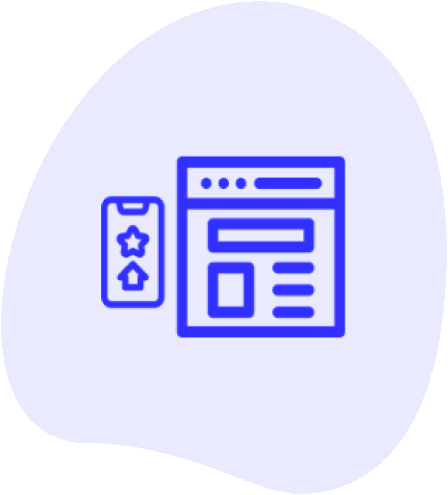
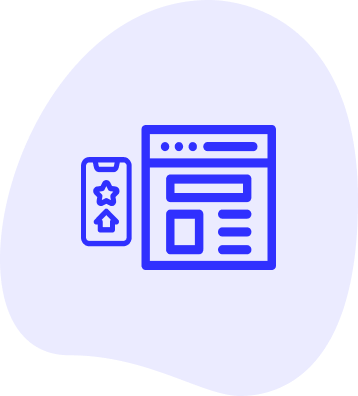
html arrangement

Changed region(s): [[0.2151, 0.3939, 0.7682, 0.697], [0.3994, 0.303, 0.7682, 0.3939], [0.5223, 0.5455, 0.5531, 0.5758]]

diff --git a/src/index.html b/src/index.html
@@ -4,34 +4,54 @@
 <head>
   <title>COOL MIND</title>
   <meta charset="UTF-8" />
+  <meta name="viewport" content="width=device-width, initial-scale=1, shrink-to-fit=no">
+
   <link rel="stylesheet" href="https://stackpath.bootstrapcdn.com/bootstrap/4.5.2/css/bootstrap.min.css"
     integrity="sha384-JcKb8q3iqJ61gNV9KGb8thSsNjpSL0n8PARn9HuZOnIxN0hoP+VmmDGMN5t9UJ0Z" crossorigin="anonymous">
 </head>
 
 <body>
+  <!--Header section-->
   <div class="header">
-    <figure class="logo"></figure>
-    <img src="img/logo.png">
-    <select class="select">
-      <option>EN</option>
-      <option>PL</option>
-      <option>DE</option>
-    </select>
+    <div class="logo">
+      <img src="img/Subtract.png">
+      <p>Cool mind</p>
+    </div>
+    <div class="language">
+      <select>
+        <option>EN</option>
+        <option>PL</option>
+        <option>DE</option>
+      </select>
+    </div>
+  </div>
+  <!--need to add hamburger menu-->
   </div>
 
-  <div class="offer">
-    <h1>We help digitals <br />producte evolve</h1>
-    <p>We are the branding and web design studio based in Portland, OR. We love playful type, bold colors and
-      joyful experience.</p>
-    <form action="http://www.jakaswitryna.com/">
-      <input placeholder=" Your email">
-      <button>Get offer</button>
-      <p>*Let us contact you</p>
-      <!--Czy to powinien być podpis pod inputem?-->
-    </form>
+  <div class="heropage">
+    <div class="herotext">
+      <h1>We help digitals producte evolve</h1>
+      <p>We are the branding and web design studio based in Portland, OR. We love playful type, bold colors and joyful
+        experience.</p>
+      <form action=”http://www.jakaswitryna.com/”>
+        <input placeholder="Your email">
+        <button>Get offer</button>
+        <!--<div class="contact-btn"><a>Get offer</a>-->
+        <p>*Let us contact you</p>
+        <!--Czy to powinien być podpis pod inputem?-->
+      </form>
+    </div>
+    <div class="heroimg">
+      <img src="img/heroimg.png">
+    </div>
   </div>
 
-  <div class="expertise">
+  <div class="blur">
+    <!--no content-->
+  </div>
+
+
+  <div class="special">
     <h2>Special expertise from us</h2>
     <div class="box">
       <img src="img/website.png">
@@ -39,48 +59,68 @@
       <p>We partner with you to create custom websites that convert and leaves the user smiling</p>
     </div>
     <div class="box">
-      <img src="img/marketing.png">
-      <h3>Marketing </br>Strategic</h3>
+      <img src="img/marketing.png" width="60px" height="60px">
+      <h3>Marketing Strategic</h3>
       <p>We partner with you to create custom websites that convert and leaves the user smiling</p>
     </div>
     <div class="box">
-      <img src="img/mobileapps.png">
+      <img src="img/mobileapps.png" width="60px" height="60px">
       <h3>Mobile Apps</h3>
-      <p>We partner with you to create custom websites that convert and leaves the user smiling</p>
+      <p>We partner with you to <span class="create">create</span>custom websites that convert and leaves the user
+        smiling
+      </p>
     </div>
   </div>
 
   <div class="design">
     <div class="strategic">
-      <img src="img/strategic.png">
-      <h2>Strategic design and engineering for global leading brands</h2>
-      <p>strategic design and engineering agency with an uncompromised commitment to quality and the generation of
-        true value.</p>
+      <div class="strategic-img">
+        <img src="img/strategic.png" width="300px" height="280px">
+      </div>
+      <div class="startegic-text">
+        <h2>Strategic design and engineering for global leading brands</h2>
+        <p>strategic design and engineering agency with an uncompromised commitment to quality and the generation of
+          true
+          value.</p>
+      </div>
     </div>
-
-    <h2>Optimaze design and engineering for global leading brands</h2>
-    <p>strategic design and engineering agency with an uncompromised commitment to quality and the generation of
-      true value.</p>
-    <img src="img/optimaze.png">
+    <div class="optimaze">
+      <div class="optimaze-text">
+        <h2>Optimaze design and engineering for global leading brands</h2>
+        <p>strategic design and engineering agency with an uncompromised commitment to quality and the generation of
+          true
+          value.</p>
+      </div>
+      <div class="optimaze-img">
+        <img src="img/optimaze.png" width="300px" height="280px">
+      </div>
+    </div>
   </div>
 
-  <div class="about us">
-    <h2>About Us</h2>
-    <h1>29 yers of growth</h1>
-    <p>We are an independent IT consultancy, set up in 1991, operatig across Europe with over 700 highly qualified
-      people delivering for our clients every day. Since then, we have been working with clients from many
-      sectors. Retail, engineering, pharmaceutical, real estate, transportation, utilities, financial, are some of
-      them. We are Digital Transformation Specialists who strive to be a partner of choice.</p>
-    <div id="numbers">
-      <div>
-        <h4>100+</h4>
-        <p>Skilled and motivated stuff</p>
+  <div class="about-us">
+    <div class="about-text">
+      <h2>About Us</h2>
+      <h1>29 years of growth</h1>
+      <p>We are an independent IT consultancy, set up in 1991, operating across Europe with over 700 highly qualified
+        people delivering for our clients every day. Since then, we have been working with clients from many sectors.
+        Retail, engineering, pharmaceutical, real estate, transportation, utilities, financial, are some of them. We are
+        Digital Transformation Specialists who strive to be a partner of choice.</p>
+    </div>
+    <div class="numbers">
+      <div id="number1" class="number-box">
+        <div class="numbers-text">
+          <h4>100+</h4>
+          <p>Skilled and motivated stuff</p>
+        </div>
+        <div class="numbers-img">
+          <img src="img/100.png">
+        </div>
       </div>
-      <div>
+      <div id="number2" class="number-box">
         <h4>80+</h4>
         <p>Succesful projects</p>
       </div>
-      <div>
+      <div id="number3" class="number-box">
         <h4>28+</h4>
         <p>Client worldwide</p>
       </div>
@@ -89,55 +129,70 @@
 
   <div class="team">
     <h1>Say hello to my Great Team</h1>
-    <div class="member">
-      <!--do wywalenia?-->
-      <figure>
-        <img src="img/DavidAninowsky.jpg" alt="David Aninowsky photo">
-        <br />
-        <figcaption>David Aninowsky<br />Ceo / Founder</figcaption>
-      </figure>
-    </div>
-    <figure>
-      <img src="img/DavidGucker.jpg" alt="David Gucker photo">
-      <br />
-      <figcaption>David Gucker<br />Chief Operating Officer</figcaption>
-    </figure>
-    <figure>
-      <img src="img/AnthonyQuon.jpg" alt="Athony Quon photo">
-      <br />
-      <figcaption>Anthony Quon<br />Chief Information Officer</figcaption>
-    </figure>
+    <div class="members">
+      <div class="member">
+        <figure>
+          <img src="img/Aninowsky.png" alt="David Aninowsky photo">
+          <br />
+          <figcaption>David Aninowsky<br />Ceo / Founder</figcaption>
+        </figure>
+      </div>
+      <div class="member">
+        <figure>
+          <img src="img/Gucker.png" alt="David Gucker photo">
+          <br />
+          <figcaption>David Gucker<br />Chief Operating Officer</figcaption>
+        </figure>
+      </div>
+      <div class="member">
+        <figure>
+          <img src="img/Quon.png" alt="Athony Quon photo">
+          <br />
+          <figcaption>Anthony Quon<br />Chief Information Officer</figcaption>
+        </figure>
+      </div>
 
-    <footer class="footer">
-      <div id="adress">
-        <p>Warehouse Society, 234<br />
-          Bahagia Ave Street PRBW 29281<br />
-          info@warehouse.project<br />
-          1-232-3434 (Main)</p>
+
+      <div class="footer">
+        <div class="adress">
+          <p>Warehouse Society, 234<br />
+            Bahagia Ave Street PRBW 29281<br />
+            info@warehouse.project<br />
+            1-232-3434 (Main)</p>
+        </div>
+        <div class="links">
+          <ul class="list">
+            <li>Home</li>
+            <li>Work</li>
+            <li>Blog</li>
+            <li>About</li>
+            <li>Services</li>
+          </ul>
+        </div>
+        <div class="social">
+          <ul>
+            <li>
+              <a href="https://facebook.com/coolmind"><img src="img/fb.png" /></a>
+            </li>
+            <li>
+              <a href="https://twitter.com/coolmind"><img src="img/twit.png" /></a>
+            </li>
+            <li>
+              <a href="https://instagram.com/coolmind"><img src="img/insta.png" /></a>
+            </li>
+          </ul>
+        </div>
       </div>
-      <div class="links">
-        <ul class="list">
-          <li>Home</li>
-          <li>Work</li>
-          <li>Blog</li>
-          <li>About</li>
-          <li>Services</li>
-        </ul>
-      </div>
-      <div id="social">
-        <ul>
-          <li>
-            <a href="https://facebook.com/coolmind"><img src="img/fb.png" /></a>
-          </li>
-          <li>
-            <a href="https://twitter.com/coolmind"><img src="img/twit.png" /></a>
-          </li>
-          <li>
-            <a href="https://instagram.com/coolmind"><img src="img/insta.png" /></a>
-          </li>
-        </ul>
-      </div>
-    </footer>
+    </div>
+
+    <script src="https://code.jquery.com/jquery-3.4.1.slim.min.js"
+      integrity="sha384-J6qa4849blE2+poT4WnyKhv5vZF5SrPo0iEjwBvKU7imGFAV0wwj1yYfoRSJoZ+n"
+      crossorigin="anonymous"></script>
+
+    <script src="https://cdn.jsdelivr.net/npm/popper.js@1.16.0/dist/umd/popper.min.js"
+      integrity="sha384-Q6E9RHvbIyZFJoft+2mJbHaEWldlvI9IOYy5n3zV9zzTtmI3UksdQRVvoxMfooAo"
+      crossorigin="anonymous"></script>
+
     <script src="https://stackpath.bootstrapcdn.com/bootstrap/4.5.2/js/bootstrap.min.js"
       integrity="sha384-B4gt1jrGC7Jh4AgTPSdUtOBvfO8shuf57BaghqFfPlYxofvL8/KUEfYiJOMMV+rV"
       crossorigin="anonymous"></script>
